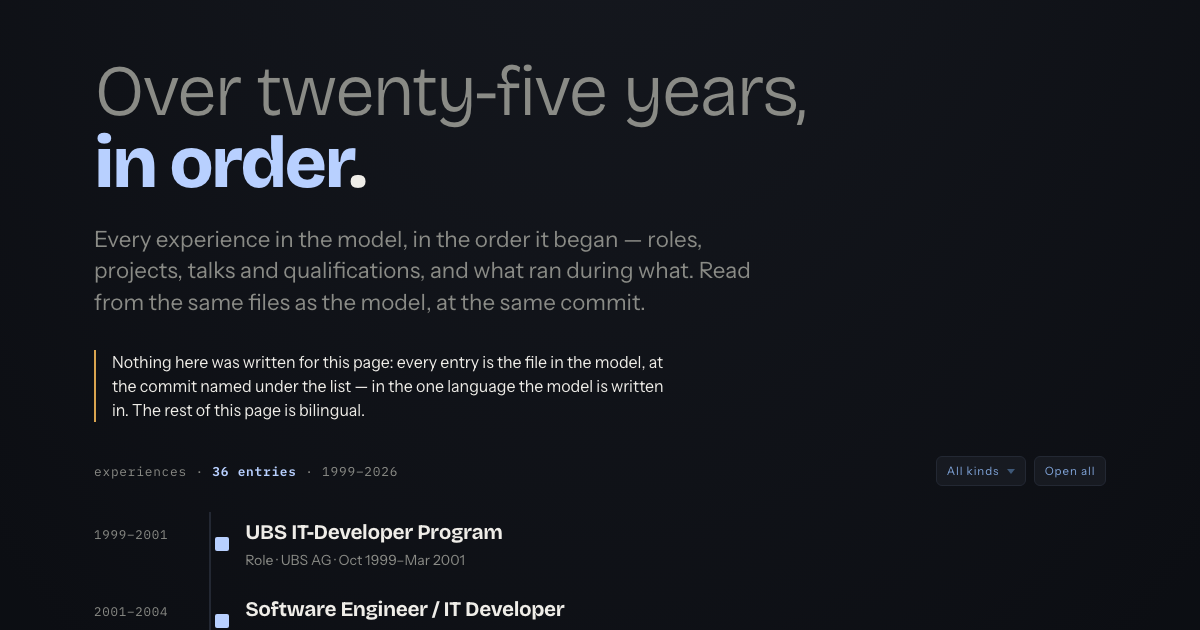
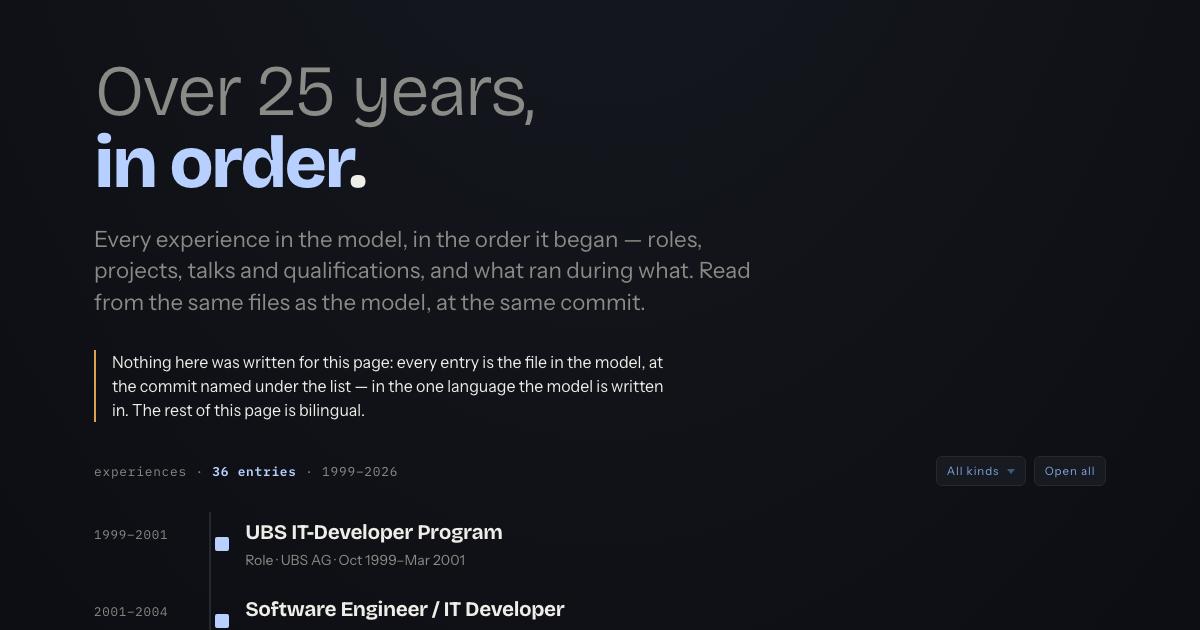
The timeline title reads 25 as a number
Spelled out, the title wrapped onto three lines in English and four in German on a phone,
where the design gives it two: the h1 sets "Over twenty-five years," above "in order." and
the first half was too long for a 335px column.

The number is a numeral in both languages, "Over 25 years," and "Über 25 Jahre,", which
says the same thing in half the width; de-CH sets a two-digit number plain, so nothing
about the German form changes. The share card and the og alt take the new title. The page
descriptions still spell the number out, because prose has no column to fit.

Verified: design:check, pin:check, og:check, model:check, principles:check and sameas:check
pass; npm run verify passes on every page against a served copy; both titles measured at
390px, two lines each.

Changed region(s): [[0.2158, 0.0905, 0.6783, 0.2111]]

diff --git a/timeline/index.html b/timeline/index.html
@@ -16,7 +16,7 @@
 <meta property="og:image" content="https://blust.ch/timeline/og.png">
 <meta property="og:image:width" content="1200">
 <meta property="og:image:height" content="630">
-<meta property="og:image:alt" content="Over twenty-five years, in order.">
+<meta property="og:image:alt" content="Over 25 years, in order.">
 <meta property="og:locale" content="en_US">
 <meta property="og:locale:alternate" content="de_CH">
 <meta name="twitter:card" content="summary_large_image">
@@ -585,7 +585,7 @@
   <div class="shell">
 
     <div class="title">
-      <h1 data-de="<span class='r70'>Über fünfundzwanzig Jahre,</span><span class='rcl'><em>der Reihe nach</em>.</span>"><span class="r70">Over twenty-five years,</span><span class="rcl"><em>in order</em>.</span></h1>
+      <h1 data-de="<span class='r70'>Über 25 Jahre,</span><span class='rcl'><em>der Reihe nach</em>.</span>"><span class="r70">Over 25 years,</span><span class="rcl"><em>in order</em>.</span></h1>
       <p class="tagline" data-de="Jede Erfahrung im Modell, in der Reihenfolge, in der sie begann – Rollen, Projekte, Vorträge und Abschlüsse, und was jeweils während welcher Periode lief. Gelesen aus denselben Dateien wie das Modell, am selben Commit.">Every experience in the model, in the order it began — roles, projects, talks and qualifications, and what ran during what. Read from the same files as the model, at the same commit.</p>
       <p class="note" data-de="Nichts davon wurde für diese Seite geschrieben: Jeder Eintrag ist die Datei im Modell, beim Commit, der unter der Liste steht – in der einen Sprache, in der das Modell geschrieben ist. Der Rest dieser Seite ist zweisprachig.">Nothing here was written for this page: every entry is the file in the model, at the commit named under the list — in the one language the model is written in. The rest of this page is bilingual.</p>
     </div>
